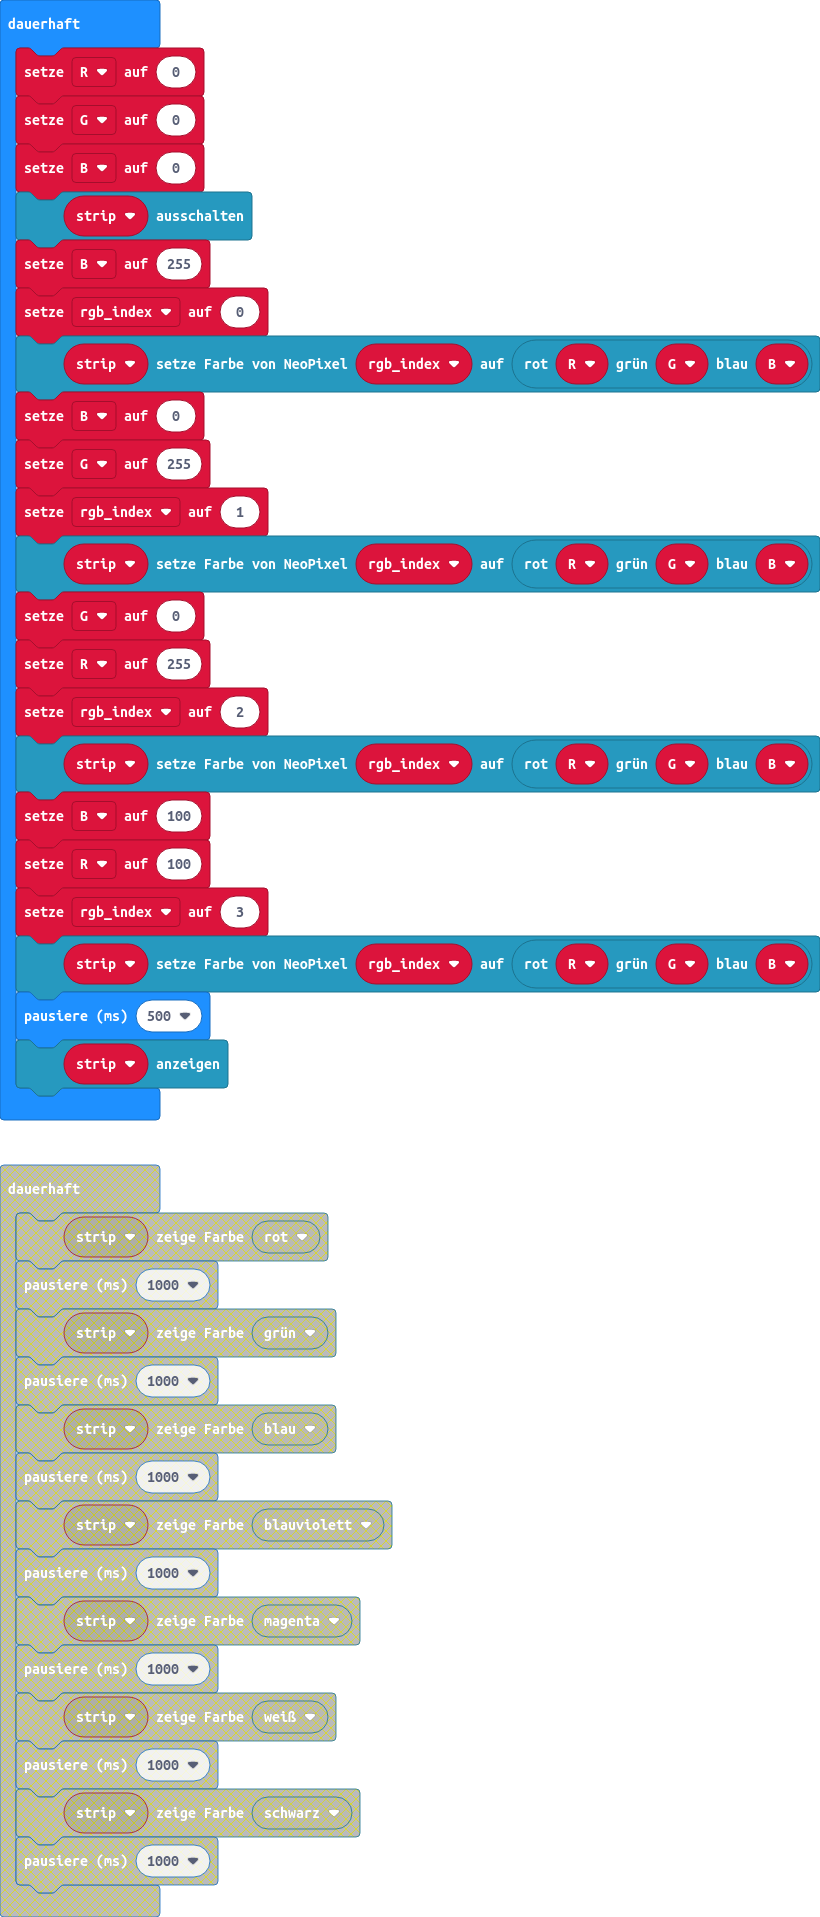
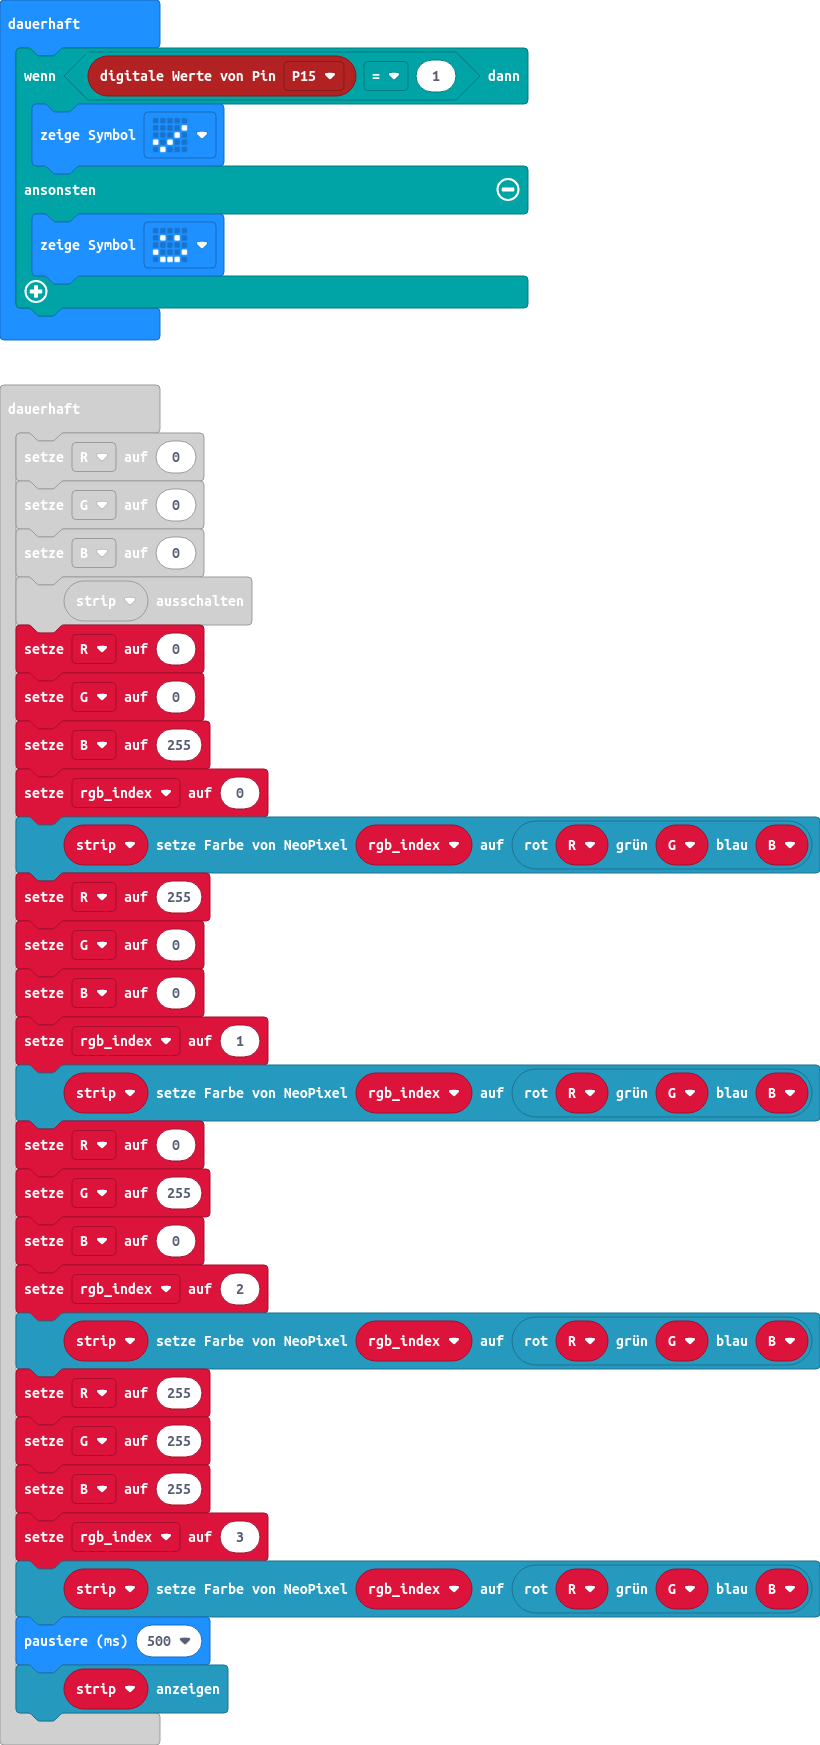
Bewegungssensor

diff --git a/main.ts b/main.ts
@@ -28,23 +28,35 @@ basic.forever(function () {
     basic.pause(200)
 })
 basic.forever(function () {
+    if (pins.digitalReadPin(DigitalPin.P15) == 1) {
+        basic.showIcon(IconNames.Yes)
+    } else {
+        basic.showIcon(IconNames.Happy)
+    }
+})
+basic.forever(function () {
     R = 0
     G = 0
     B = 0
     strip.clear()
+    R = 0
+    G = 0
     B = 255
     rgb_index = 0
     strip.setPixelColor(rgb_index, neopixel.rgb(R, G, B))
+    R = 255
+    G = 0
     B = 0
-    G = 255
     rgb_index = 1
     strip.setPixelColor(rgb_index, neopixel.rgb(R, G, B))
-    G = 0
-    R = 255
+    R = 0
+    G = 255
+    B = 0
     rgb_index = 2
     strip.setPixelColor(rgb_index, neopixel.rgb(R, G, B))
-    B = 100
-    R = 100
+    R = 255
+    G = 255
+    B = 255
     rgb_index = 3
     strip.setPixelColor(rgb_index, neopixel.rgb(R, G, B))
     basic.pause(500)
